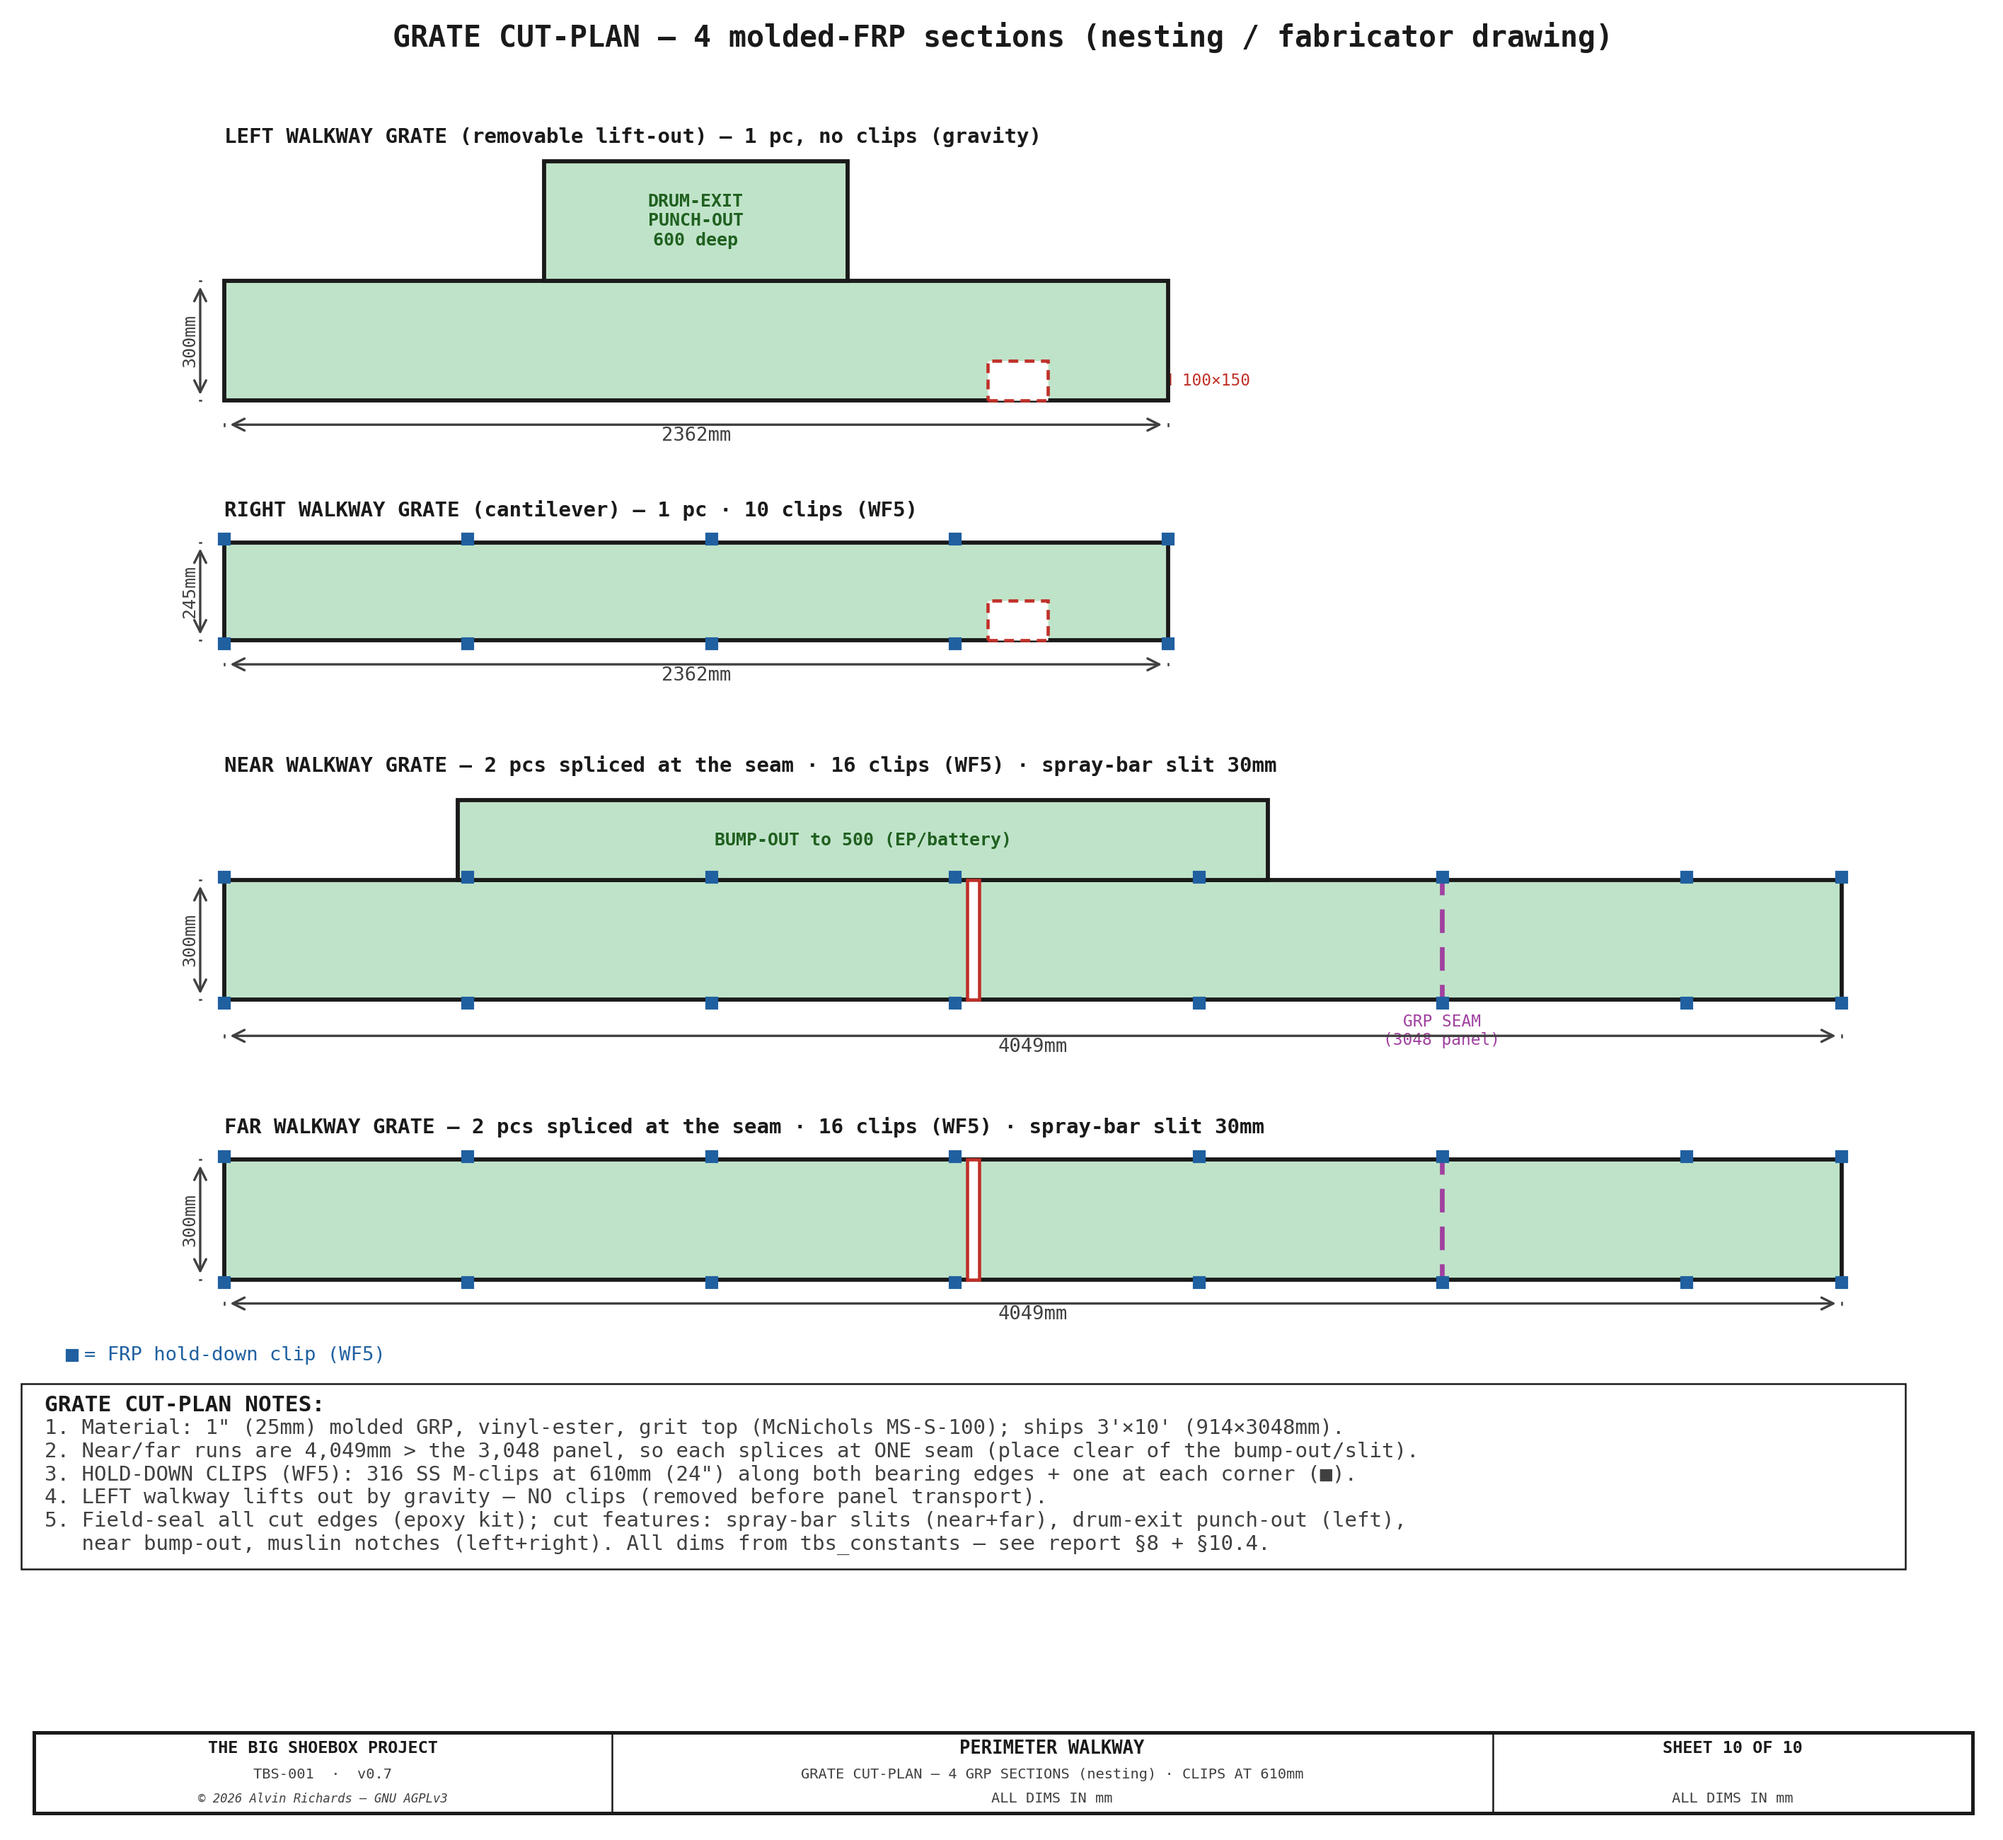
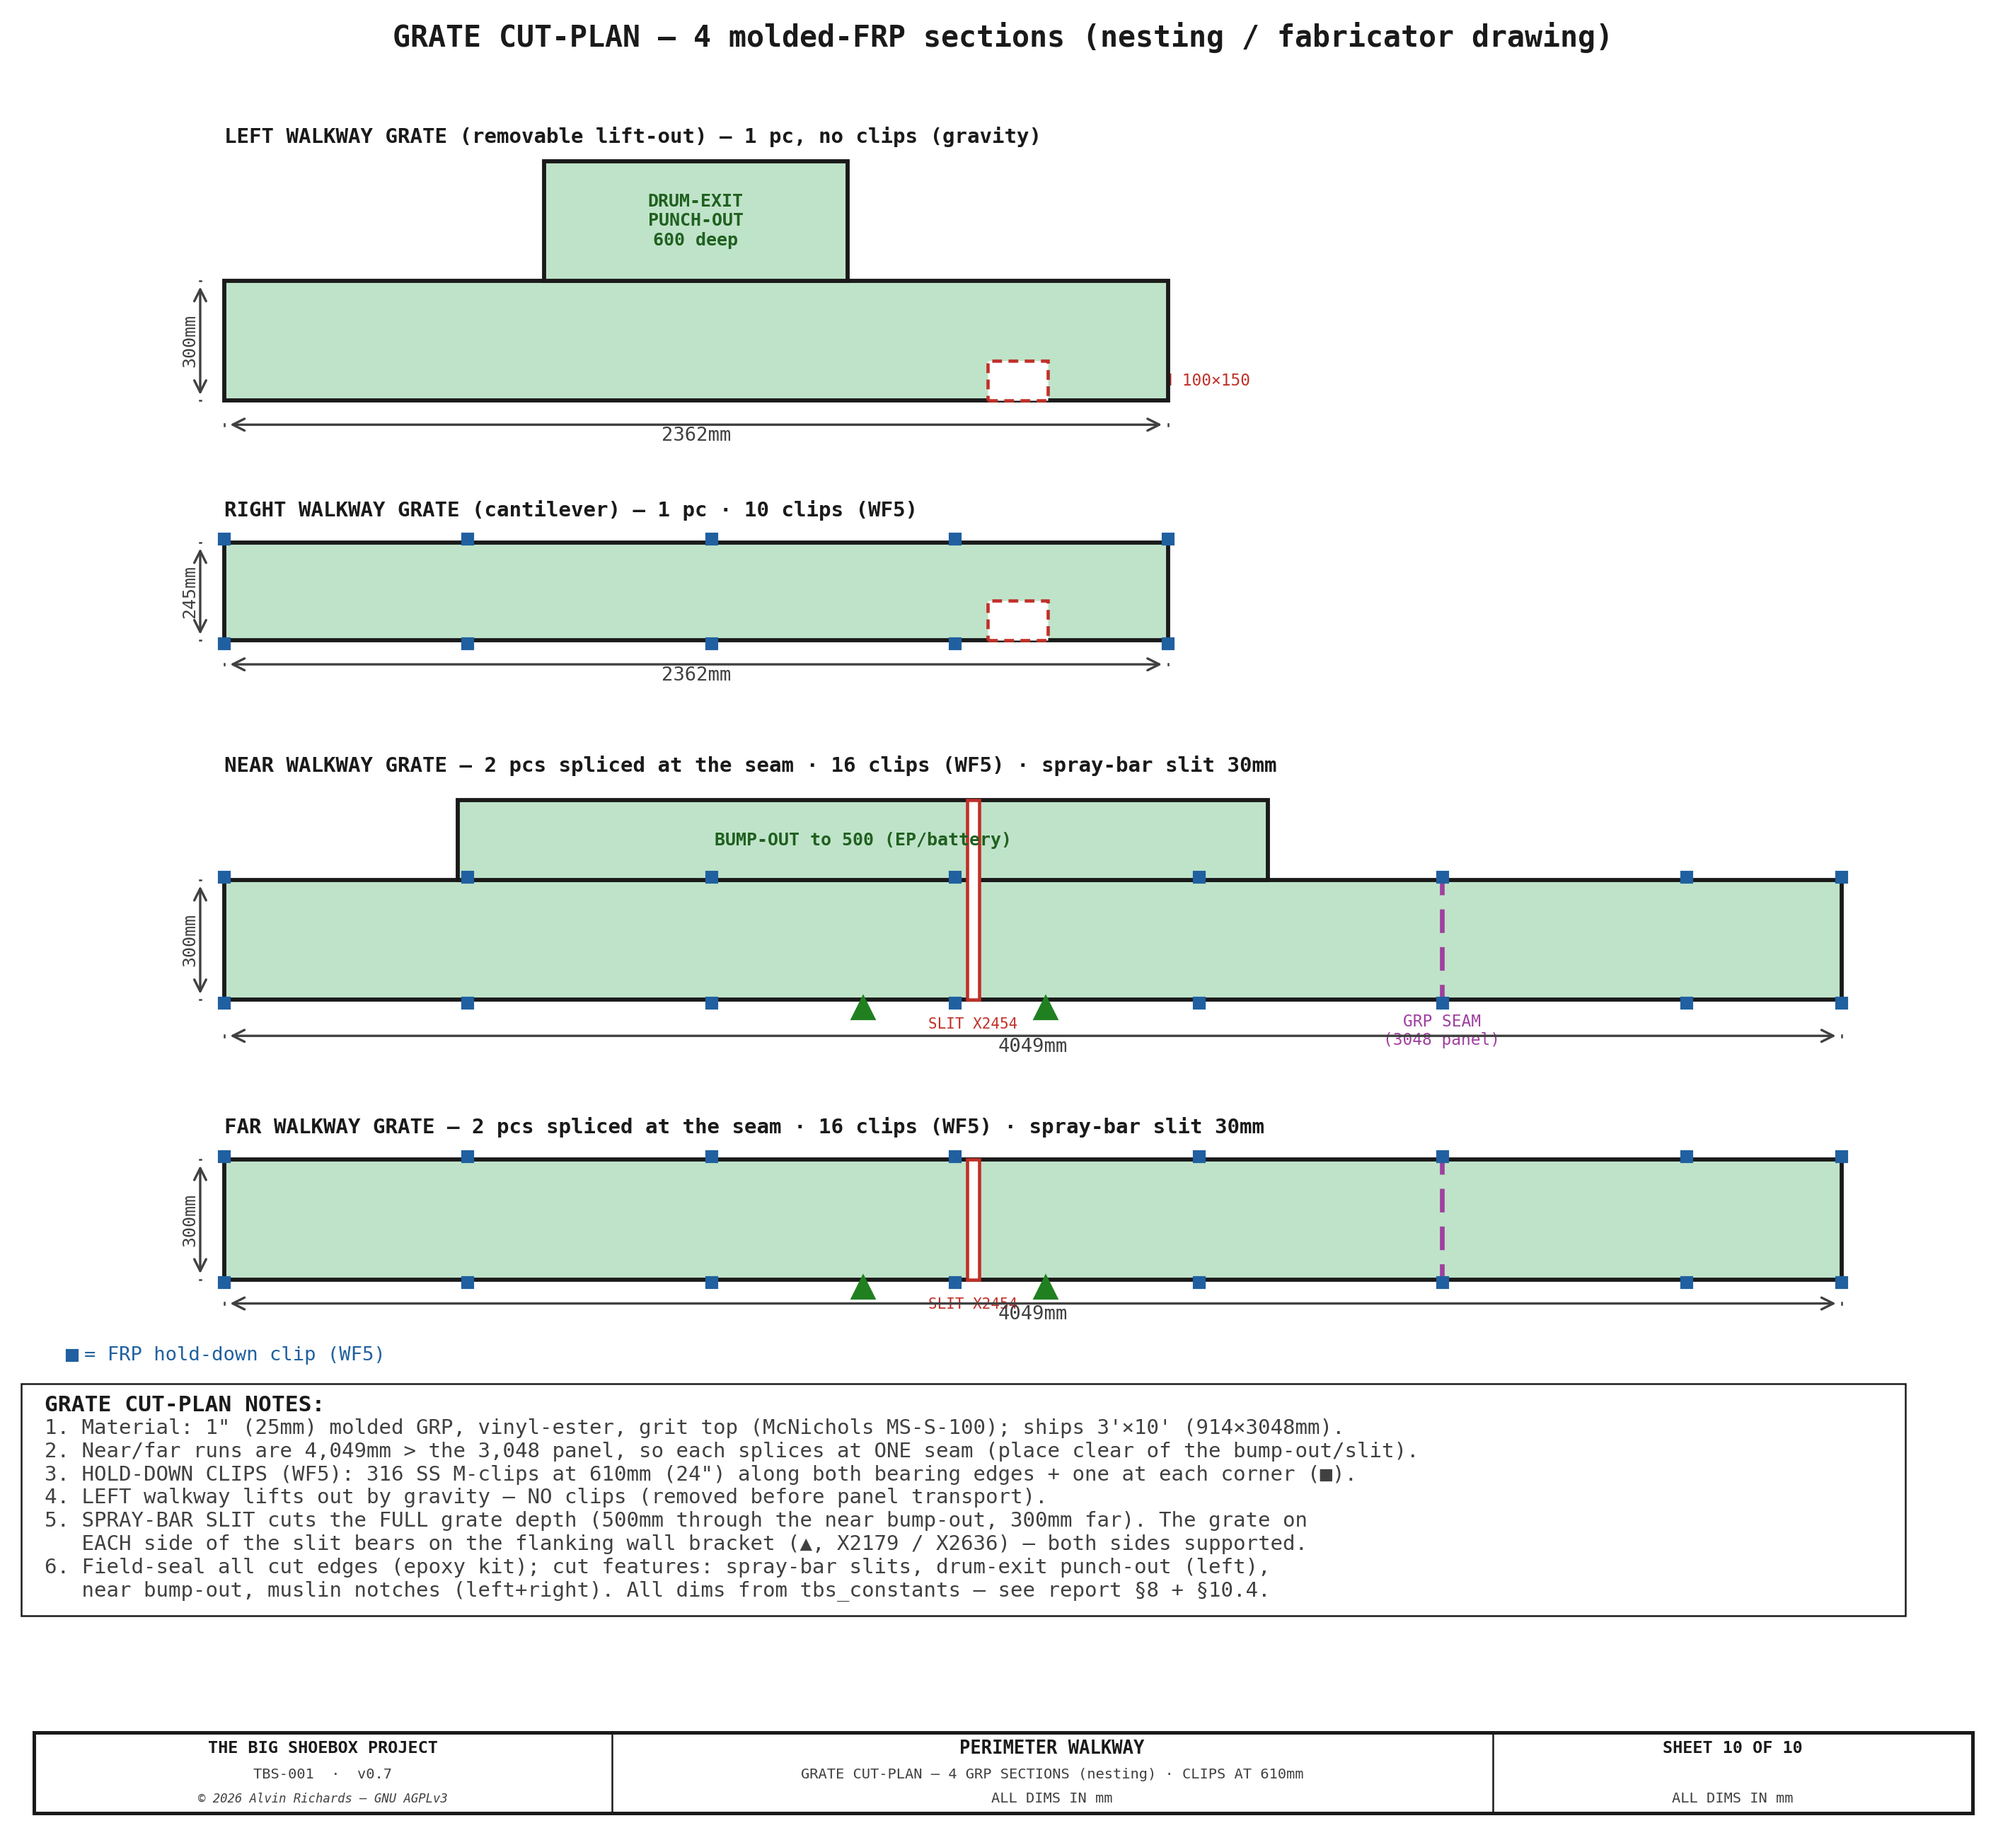
walkway Sheet 10: spray-bar slit cuts full depth through the bump-out + flanking-bracket support
Alvin review: (1) the spray-bar slit is at X2454, INSIDE the near bump-out
(X1165-3193), so it must cut the full 500mm grate depth there (was drawn only
through the 300mm strip); the far slit stays 300mm (no bump-out). (2) Confirm the
cut's support: the slit is flanked by widened brackets at X2180 / X2636, so the
grate on EACH side bears on a bracket — shown with ▲ support marks + note 5.
Flanking stations computed from the constants.

diff --git a/src/generators/generate_walkway_diagram.py b/src/generators/generate_walkway_diagram.py
@@ -2683,6 +2683,20 @@ def sheet10():
     pitch = WALKWAY_GRATE_CLIP_PITCH               # 610
     GRP_MAX = 3048                                 # 10 ft molded panel length
     slit_c = PH_X - (WALKWAY_LEFT_X + WALKWAY_W)   # slit X within the near/far piece
+    # Spray-slit support: the grate on EACH side of the slit bears on the flanking wall bracket.
+    _st = list(np.arange((WALKWAY_LEFT_X + WALKWAY_W) + WALKWAY_BRACKET_SPACING / 2,
+                         PROC_TRAY_X_L + PROC_TRAY_W, WALKWAY_BRACKET_SPACING))
+    flL = max(s for s in _st if s < PH_X) - (WALKWAY_LEFT_X + WALKWAY_W)   # left flanking bracket (within-piece X)
+    flR = min(s for s in _st if s > PH_X) - (WALKWAY_LEFT_X + WALKWAY_W)   # right flanking bracket
+
+    def slit(y, depth):
+        """Spray-bar pole slit through the FULL grate depth + the flanking-bracket support marks (▲)."""
+        ax.add_patch(Rectangle((slit_c - SPRAY_BAR_SLIT_W / 2, y), SPRAY_BAR_SLIT_W, depth,
+                               fc="#FFFFFF", ec=C_CUT, lw=1.1, zorder=6))
+        for fx in (flL, flR):
+            ax.plot([fx], [y - 20], marker="^", ms=7, color="#208020", zorder=9)   # ▲ bears on a bracket
+        ax.text(slit_c, y - 44, f"SLIT X{PH_X}", ha="center", va="top",
+                fontsize=5, color=C_CUT, **FONT)
     lw_l, lw_r = WALKWAY_LEFT_WIDE_YD_L, WALKWAY_LEFT_WIDE_YD_R             # punch-out 800-1560
     lw_w = WALKWAY_LEFT_WIDE_W                      # 600
     mn0, mnd, mnw = WALKWAY_MUSLIN_NOTCH_YD0, WALKWAY_MUSLIN_NOTCH_DX, WALKWAY_MUSLIN_NOTCH_DY  # 1912/100/150
@@ -2737,7 +2751,7 @@ def sheet10():
     ax.add_patch(Rectangle((xoff_nw_l, y + W), xoff_nw_r - xoff_nw_l, WW - W, fc=C_GRP, ec=C_OUT, lw=1.4, zorder=5))
     ax.text((xoff_nw_l + xoff_nw_r) / 2, y + W + (WW - W) / 2, "BUMP-OUT to 500 (EP/battery)",
             ha="center", va="center", fontsize=6, color="#206020", fontweight="bold", **FONT, zorder=7)
-    ax.add_patch(Rectangle((slit_c - SPRAY_BAR_SLIT_W / 2, y), SPRAY_BAR_SLIT_W, W, fc="#FFFFFF", ec=C_CUT, lw=1.1, zorder=6))
+    slit(y, WW)   # the near slit is INSIDE the bump-out → cut the full 500mm depth
     ax.plot([GRP_MAX, GRP_MAX], [y - 20, y + W + 20], color="#A040A0", lw=1.6, ls=(0, (5, 3)), zorder=8)
     ax.text(GRP_MAX, y - 34, f"GRP SEAM\n(3048 panel)", ha="center", va="top", fontsize=5.5, color="#A040A0", **FONT)
     nc = clips(0, nf_len, y - 8) + clips(0, nf_len, y + W + 8)
@@ -2745,12 +2759,11 @@ def sheet10():
             ha="left", va="bottom", fontsize=7, color=C_OUT, fontweight="bold", **FONT)
     draw_dim_h(ax, 0, nf_len, y - 90, f"{nf_len:.0f}mm", offset=8, fs=6.5, above=False, font=FONT)
     draw_dim_v(ax, -60, y, y + W, f"{W}mm", offset=8, fs=6, right=False, font=FONT)
-    ax.text(slit_c, y + W + 20, f"SLIT @ X{PH_X}", ha="center", va="bottom", fontsize=5.5, color=C_CUT, **FONT)
 
     # ── FAR piece (4049 × 300, spray slit, seam) ──
     y = 650
     ax.add_patch(Rectangle((0, y), nf_len, W, fc=C_GRP, ec=C_OUT, lw=1.4, zorder=5))
-    ax.add_patch(Rectangle((slit_c - SPRAY_BAR_SLIT_W / 2, y), SPRAY_BAR_SLIT_W, W, fc="#FFFFFF", ec=C_CUT, lw=1.1, zorder=6))
+    slit(y, W)   # far walkway is uniform 300 (no bump-out) — full 300mm depth
     ax.plot([GRP_MAX, GRP_MAX], [y - 20, y + W + 20], color="#A040A0", lw=1.6, ls=(0, (5, 3)), zorder=8)
     nc = clips(0, nf_len, y - 8) + clips(0, nf_len, y + W + 8)
     ax.text(0, y + W + 55, f"FAR WALKWAY GRATE — 2 pcs spliced at the seam · {nc} clips (WF5) · spray-bar slit {SPRAY_BAR_SLIT_W}mm",
@@ -2765,7 +2778,9 @@ def sheet10():
         "2. Near/far runs are 4,049mm > the 3,048 panel, so each splices at ONE seam (place clear of the bump-out/slit).",
         f"3. HOLD-DOWN CLIPS (WF5): 316 SS M-clips at {pitch}mm ({int(pitch/25.4+0.5)}\") along both bearing edges + one at each corner (■).",
         "4. LEFT walkway lifts out by gravity — NO clips (removed before panel transport).",
-        "5. Field-seal all cut edges (epoxy kit); cut features: spray-bar slits (near+far), drum-exit punch-out (left),",
+        f"5. SPRAY-BAR SLIT cuts the FULL grate depth (500mm through the near bump-out, 300mm far). The grate on",
+        f"   EACH side of the slit bears on the flanking wall bracket (▲, X{int(flL + WALKWAY_LEFT_X + WALKWAY_W)} / X{int(flR + WALKWAY_LEFT_X + WALKWAY_W)}) — both sides supported.",
+        "6. Field-seal all cut edges (epoxy kit); cut features: spray-bar slits, drum-exit punch-out (left),",
         "   near bump-out, muslin notches (left+right). All dims from tbs_constants — see report §8 + §10.4.",
     ]
     ax.plot([-380], [460], marker="s", ms=3.4, color=C_CLIP)
